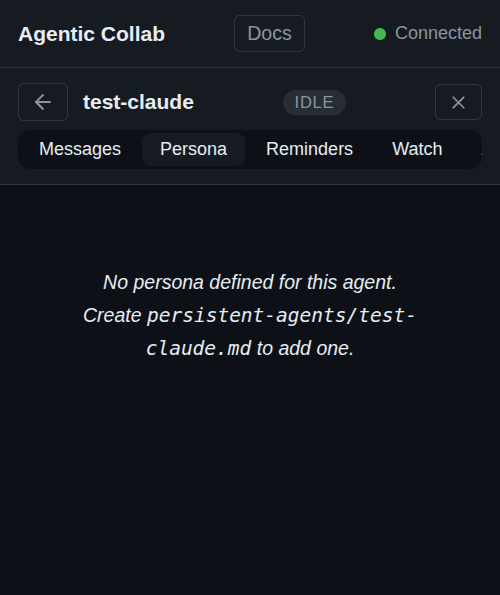
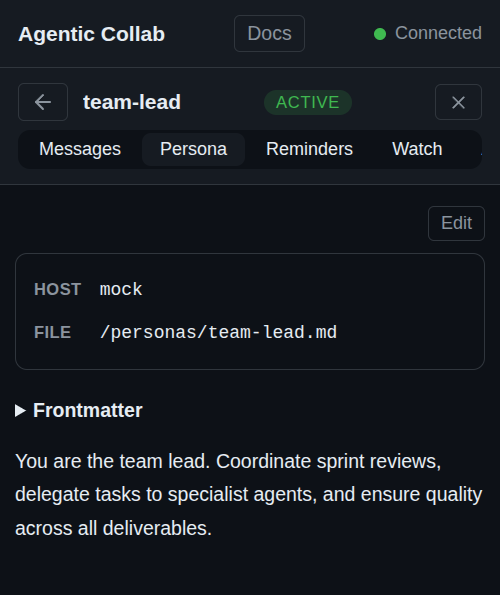
fix: seed persona data in screenshots, fix desktop window dimensions
Screenshots now show populated persona panels instead of "No persona
defined." Added setPersonas test control endpoint + persona fixtures
for all 5 mock agents. Initial extResize(1280, 900) ensures desktop
layout before capturing.

diff --git a/scripts/capture-screenshots.ts b/scripts/capture-screenshots.ts
@@ -26,12 +26,44 @@ await ctx.startExtensionServer();
 
 // Seed data
 await ctx.setAgents([
-  { name: 'team-lead', engine: 'claude', state: 'active', lastActivity: new Date().toISOString() },
-  { name: 'frontend-dev', engine: 'claude', state: 'idle', lastActivity: new Date(Date.now() - 300000).toISOString() },
-  { name: 'backend-dev', engine: 'codex', state: 'active', lastActivity: new Date().toISOString() },
-  { name: 'qa-agent', engine: 'opencode', state: 'idle', lastActivity: new Date(Date.now() - 600000).toISOString() },
-  { name: 'docs-writer', engine: 'claude', state: 'suspended', lastActivity: new Date(Date.now() - 3600000).toISOString() },
+  { name: 'team-lead', engine: 'claude', state: 'active', lastActivity: new Date().toISOString(), persona: 'team-lead' },
+  { name: 'frontend-dev', engine: 'claude', state: 'idle', lastActivity: new Date(Date.now() - 300000).toISOString(), persona: 'frontend-dev' },
+  { name: 'backend-dev', engine: 'codex', state: 'active', lastActivity: new Date().toISOString(), persona: 'backend-dev' },
+  { name: 'qa-agent', engine: 'opencode', state: 'idle', lastActivity: new Date(Date.now() - 600000).toISOString(), persona: 'qa-agent' },
+  { name: 'docs-writer', engine: 'claude', state: 'suspended', lastActivity: new Date(Date.now() - 3600000).toISOString(), persona: 'docs-writer' },
 ]);
+
+function makePersona(name: string, fm: Record<string, unknown>, body: string) {
+  const fmLines = Object.entries(fm).map(([k, v]) => `${k}: ${typeof v === 'string' ? v : JSON.stringify(v)}`).join('\n');
+  const content = `---\n${fmLines}\n---\n\n${body}`;
+  return { name, content, frontmatter: fm, body, filePath: `/personas/${name}.md`, hostname: 'mock' };
+}
+
+await ctx.setPersonas({
+  'team-lead': makePersona('team-lead', {
+    engine: 'claude', model: 'opus', thinking: 'high', permissions: 'dangerously-skip',
+    cwd: '/home/user/project',
+    start: [{ shell: 'claude --model opus --append-system-prompt $PERSONA_PROMPT' }],
+  }, 'You are the team lead. Coordinate sprint reviews, delegate tasks to specialist agents, and ensure quality across all deliverables.'),
+  'frontend-dev': makePersona('frontend-dev', {
+    engine: 'claude', model: 'sonnet',
+    cwd: '/home/user/project/frontend',
+    start: [{ shell: 'claude --model sonnet --append-system-prompt $PERSONA_PROMPT' }],
+  }, 'You are a frontend developer. Build and maintain the dashboard UI using vanilla TypeScript, Web Components, and scoped CSS.'),
+  'backend-dev': makePersona('backend-dev', {
+    engine: 'codex', model: 'o3',
+    cwd: '/home/user/project',
+    start: [{ shell: 'codex --model o3 --approval-mode full-auto' }],
+  }, 'You are a backend developer. Work on the orchestrator, database, lifecycle management, and API routes.'),
+  'qa-agent': makePersona('qa-agent', {
+    engine: 'opencode', model: 'sonnet',
+    cwd: '/home/user/project',
+  }, 'You are the QA agent. Run the full test suite, report failures, and verify fixes before they merge.'),
+  'docs-writer': makePersona('docs-writer', {
+    engine: 'claude', model: 'haiku',
+    cwd: '/home/user/project/docs',
+  }, 'You are the documentation writer. Keep README, CHANGELOG, and HANDOFF docs accurate and up to date.'),
+});
 for (const msg of [
   { m: 'Starting sprint review. Frontend-dev, report on dashboard progress.', d: 'from_agent' },
   { m: 'Dashboard modularized — 16 TS modules, 6 Web Components, 8 CSS files. No build step.', d: 'to_agent' },
@@ -67,18 +99,23 @@ function save(name: string) {
 }
 
 try {
+  // Ensure desktop dimensions
   console.log('Desktop screenshots...');
+  await ctx.extResize(1280, 900);
+  await sleep(2000);
 
   await ctx.extScreenshot('desktop-agents');
   save('desktop-agents');
 
-  await ctx.click('agent-card');
+  // Click team-lead for messages (has seeded conversation)
+  await ctx.click('agent-card[data-agent="team-lead"]');
   await sleep(2000);
   await ctx.extScreenshot('desktop-messages');
   save('desktop-messages');
 
+  // Persona tab (team-lead has rich persona data)
   await ctx.click('.thread-tabs button:nth-child(2)');
-  await sleep(1000);
+  await sleep(1500);
   await ctx.extScreenshot('desktop-persona');
   save('desktop-persona');
 
@@ -98,13 +135,13 @@ try {
   await ctx.extScreenshot('mobile-agents');
   save('mobile-agents');
 
-  await ctx.click('agent-card');
+  await ctx.click('agent-card[data-agent="team-lead"]');
   await sleep(2000);
   await ctx.extScreenshot('mobile-messages');
   save('mobile-messages');
 
   await ctx.click('.thread-tabs button:nth-child(2)');
-  await sleep(1000);
+  await sleep(1500);
   await ctx.extScreenshot('mobile-persona');
   save('mobile-persona');
 

diff --git a/src/test/mock-server.ts b/src/test/mock-server.ts
@@ -169,6 +169,7 @@ type FixtureState = {
   threads: Record<string, DashboardMessage[]>;
   proxies: ProxyRegistration[];
   indicators: Record<string, ActiveIndicator[]>;
+  personas: Record<string, unknown>;
   messageIdCounter: number;
   requestLog: RequestLogEntry[];
   wsLog: WsLogEntry[];
@@ -180,6 +181,7 @@ function createFixtureState(): FixtureState {
     threads: {},
     proxies: [...DEFAULT_PROXIES],
     indicators: {},
+    personas: {},
     messageIdCounter: 1,
     requestLog: [],
     wsLog: [],
@@ -353,7 +355,13 @@ export async function startMockServer(port: number): Promise<MockServer> {
 
     // ── API: personas ──
     if (method === 'GET' && path.startsWith('/api/personas/')) {
-      logJson(res, { error: 'not found' }, 404);
+      const name = path.replace('/api/personas/', '');
+      const persona = fixtures.personas[name];
+      if (persona) {
+        logJson(res, persona);
+      } else {
+        logJson(res, { error: 'not found' }, 404);
+      }
       return;
     }
 
@@ -388,6 +396,16 @@ export async function startMockServer(port: number): Promise<MockServer> {
           wss.broadcast(JSON.stringify(event));
         }
       }
+      logJson(res, { ok: true });
+      return;
+    }
+
+    // ── Test Control: set-personas ──
+    if (method === 'POST' && path === '/test/set-personas') {
+      const rawBody = await readBody(req);
+      const body = JSON.parse(rawBody) as Record<string, unknown>;
+      parsedRequestBody = body;
+      Object.assign(fixtures.personas, body);
       logJson(res, { ok: true });
       return;
     }

diff --git a/src/test/runner.ts b/src/test/runner.ts
@@ -226,6 +226,15 @@ export class TestContext {
     if (!res.ok) throw new Error(`setAgents failed: ${res.status}`);
   }
 
+  async setPersonas(personas: Record<string, unknown>): Promise<void> {
+    const res = await fetch(`${this.mock.url}/test/set-personas`, {
+      method: 'POST',
+      headers: { 'content-type': 'application/json' },
+      body: JSON.stringify(personas),
+    });
+    if (!res.ok) throw new Error(`setPersonas failed: ${res.status}`);
+  }
+
   async sendMessage(agent: string, message: string, opts?: { direction?: string; topic?: string }): Promise<void> {
     const res = await fetch(`${this.mock.url}/test/send-message`, {
       method: 'POST',
